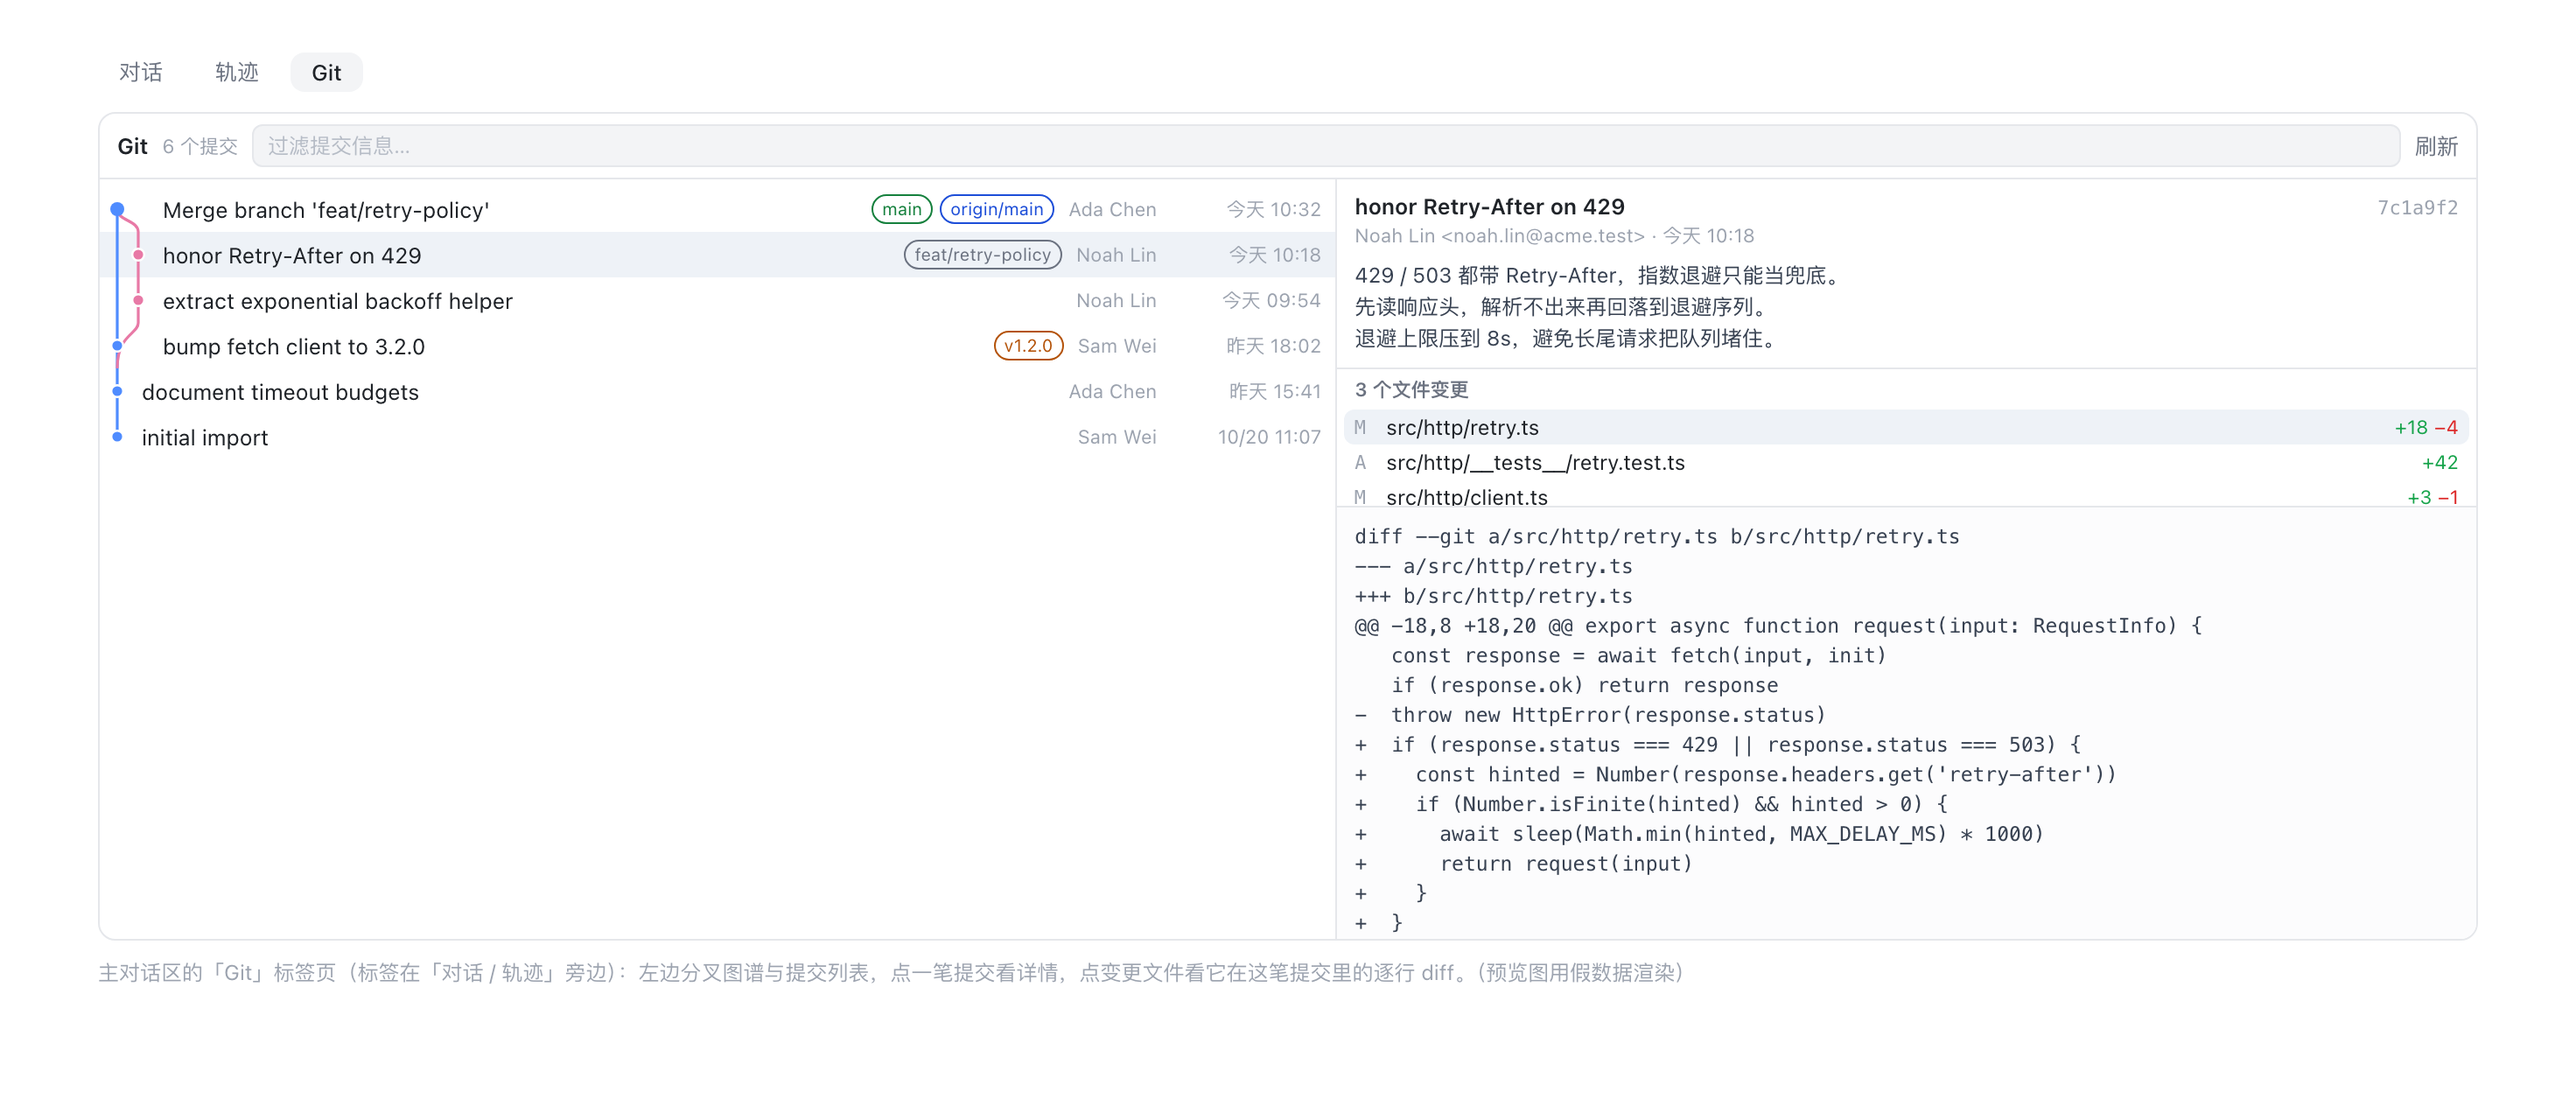
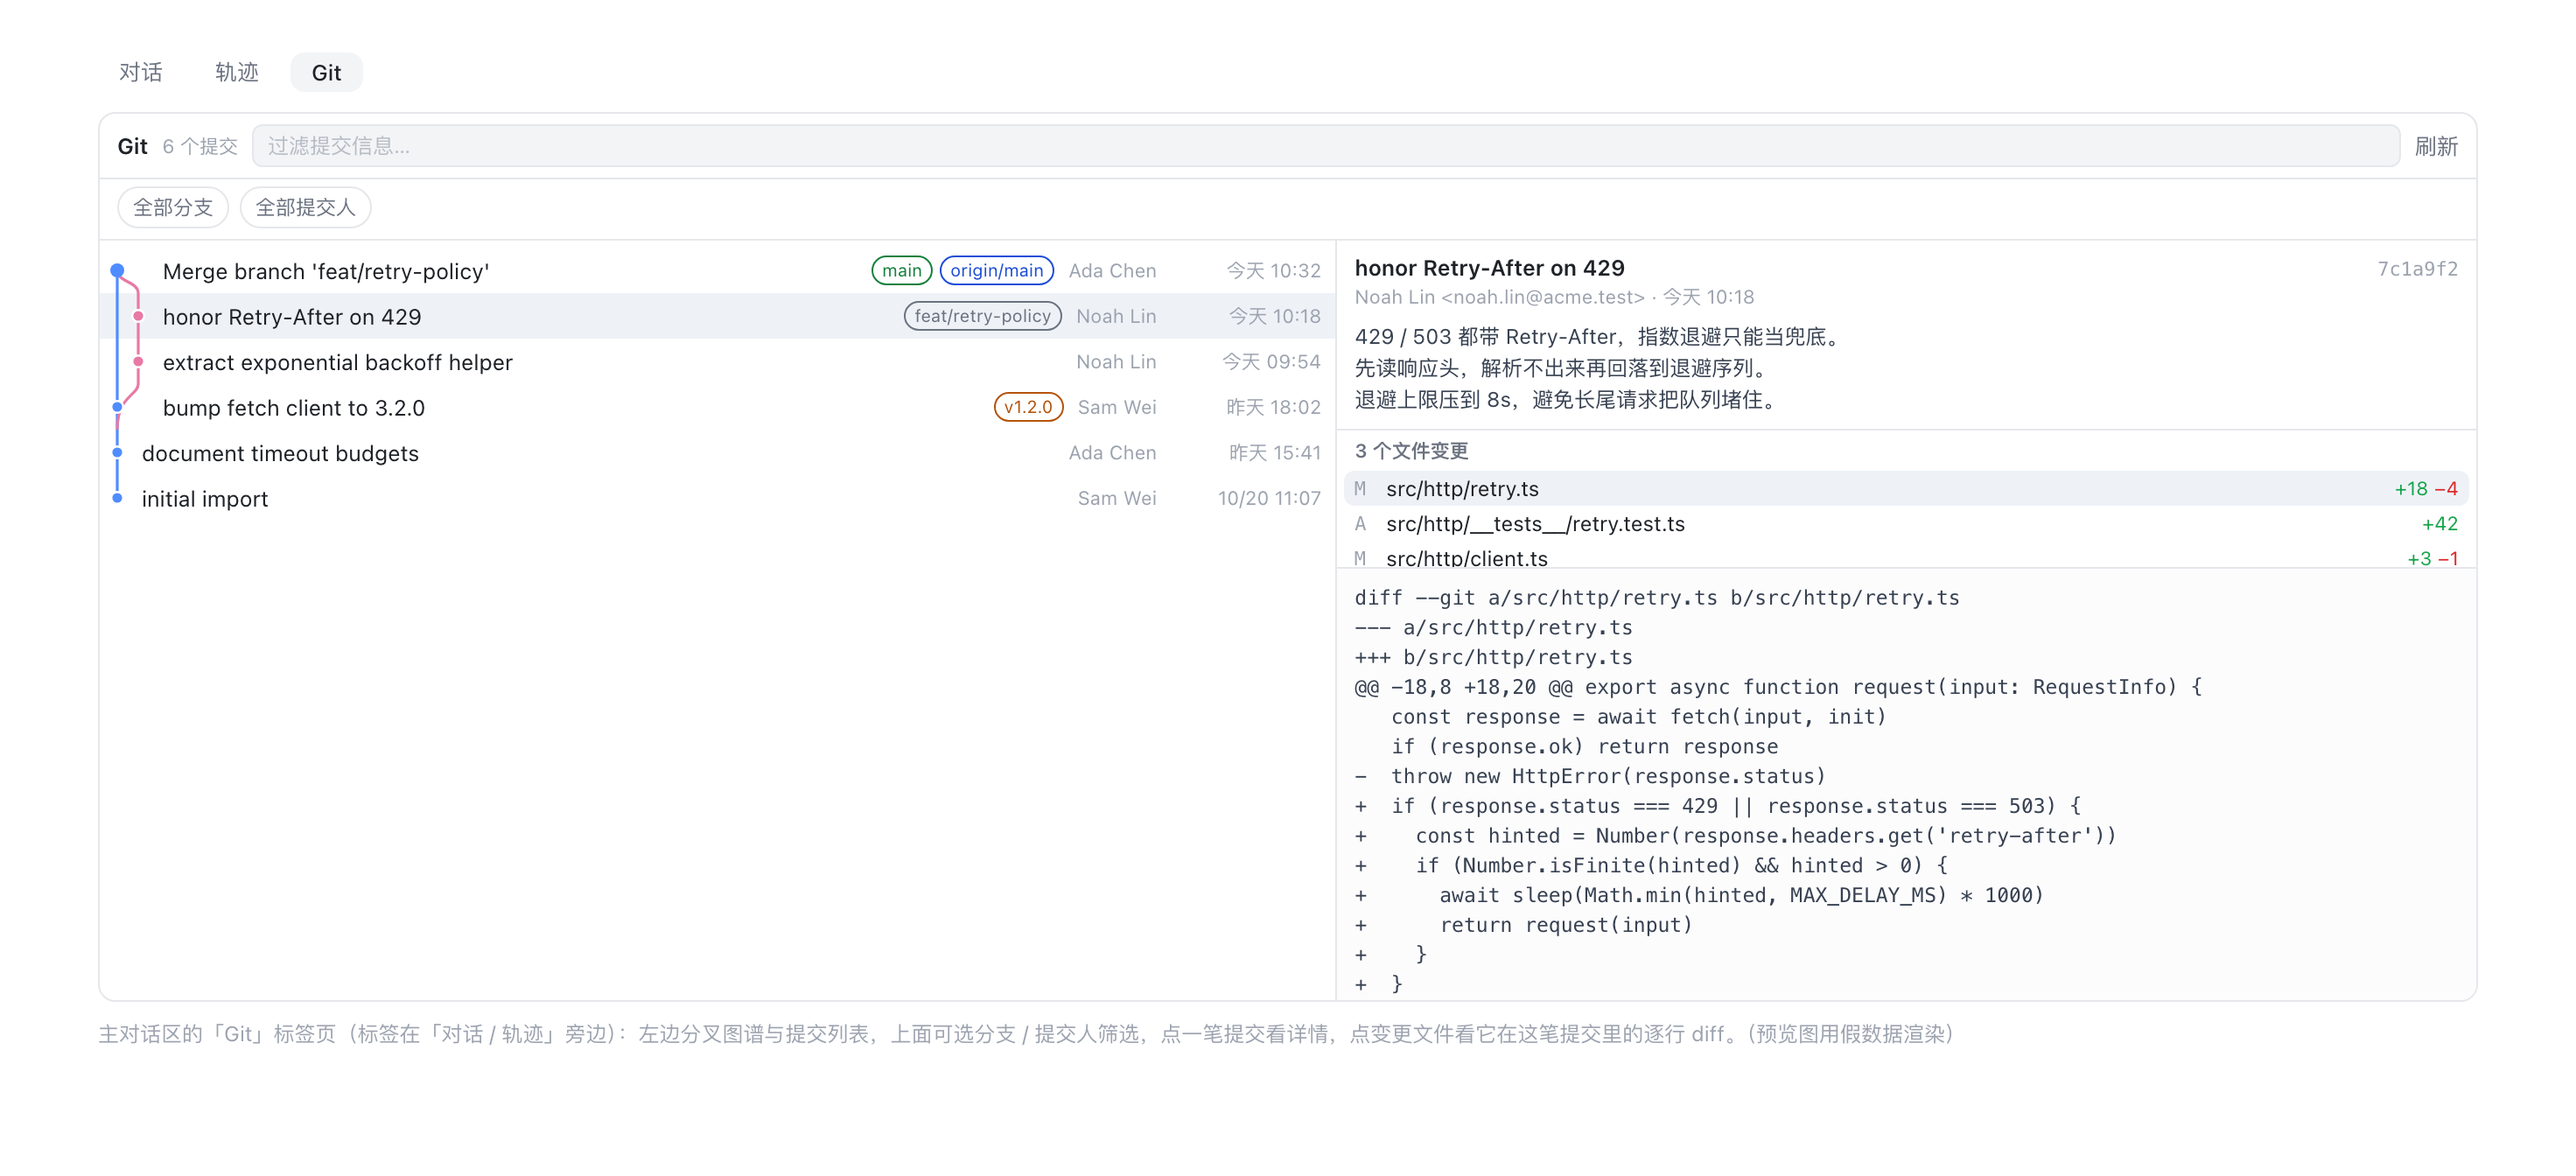
docs: 0.4.0 —— README/预览图/描述同步分支与提交人筛选
预览图按新的假数据模板重画（加了「全部分支 / 全部提交人」两个下拉，
窗口高度补 32px 免得截断），文案里写明筛选走 git、滚到底自动续页。

diff --git a/scripts/previews/history.html b/scripts/previews/history.html
@@ -9,6 +9,10 @@
       <div class="filter">过滤提交信息…</div>
       <span class="refresh">刷新</span>
     </div>
+    <div class="hfilters">
+      <span class="chip">全部分支</span>
+      <span class="chip">全部提交人</span>
+    </div>
     <div class="hbody">
       <div class="hlist">
         <div class="hrow">
@@ -76,5 +80,5 @@
       </div>
     </div>
   </div>
-  <p class="caption">主对话区的「Git」标签页（标签在「对话 / 轨迹」旁边）：左边分叉图谱与提交列表，点一笔提交看详情，点变更文件看它在这笔提交里的逐行 diff。（预览图用假数据渲染）</p>
+  <p class="caption">主对话区的「Git」标签页（标签在「对话 / 轨迹」旁边）：左边分叉图谱与提交列表，上面可选分支 / 提交人筛选，点一笔提交看详情，点变更文件看它在这笔提交里的逐行 diff。（预览图用假数据渲染）</p>
 </div></body></html>

diff --git a/scripts/previews/style.css b/scripts/previews/style.css
@@ -164,6 +164,8 @@ body {
   background: #f3f4f6; border: 1px solid #e5e7eb; border-radius: 6px;
 }
 .hhead .refresh { color: #6b7280; }
+.hfilters { display: flex; align-items: center; gap: 6px; padding: 4px 10px 6px; border-bottom: 1px solid #e5e7eb; }
+.hfilters .chip { font-size: 11.5px; line-height: 18px; padding: 2px 8px; border-radius: 999px; border: 1px solid #e5e7eb; color: #6b7280; }
 .hbody { display: flex; height: 434px; }
 .hlist { flex: 1 1 52%; min-width: 0; overflow: hidden; padding: 4px 0; }
 .hrow { display: flex; align-items: center; gap: 8px; padding: 0 8px 0 4px; height: 26px; }

diff --git a/README.md b/README.md
@@ -42,9 +42,12 @@ do:
 The conversation also gains a **Git history** view tab. The left half is the
 commit graph — one lane per line of history, each lane keeping its own colour,
 merge commits drawing the line back into the lane it merged into — followed by
-the commit list and a keyword filter. Pick a commit to read its author, time,
-full message and changed files; pick a file to read its unified diff inside that
-commit. The tab only reads: no ref, index or worktree is written.
+the commit list and a keyword filter, plus two dropdowns that narrow the list by
+branch and by author — both run in git, so they apply to the whole history rather
+than to the page already loaded. Picking a commit reads its author, time, full
+message and changed files; picking a file reads its unified diff inside that
+commit. Scrolling to the bottom loads older commits by itself; there is no
+"load more" button. The tab only reads: no ref, index or worktree is written.
 - nothing here silently scrolls away: a drag that selects text does not also open
   a popover.
 
@@ -144,8 +147,8 @@ additions, deletions }], dirty, truncated }`, capped at 500 files.
 `GET /dsh-git-bar/diff?sessionId=<id>&path=<repo-relative>&staged=0|1` — `{ path,
 staged, diff, truncated }`, capped at 200 000 characters.
 
-`GET /dsh-git-bar/log?sessionId=<id>[&limit=1..300]` — `{ dir, commits, hasMore,
-truncated }`, where each commit is `{ hash, short, parents, author, email, when,
+`GET /dsh-git-bar/log?sessionId=<id>[&limit=1..300][&branch=<ref>][&author=<text>]`
+— `{ dir, commits, hasMore, truncated, filters: { branch, author } }`, where each commit is `{ hash, short, parents, author, email, when,
 subject, refs: [{ name, kind }] }`. `kind` is `head`, `local`, `remote` or `tag`,
 and `name` is the short ref name (the same form `/branches` reports). 60 commits
 by default, 300 at most.
